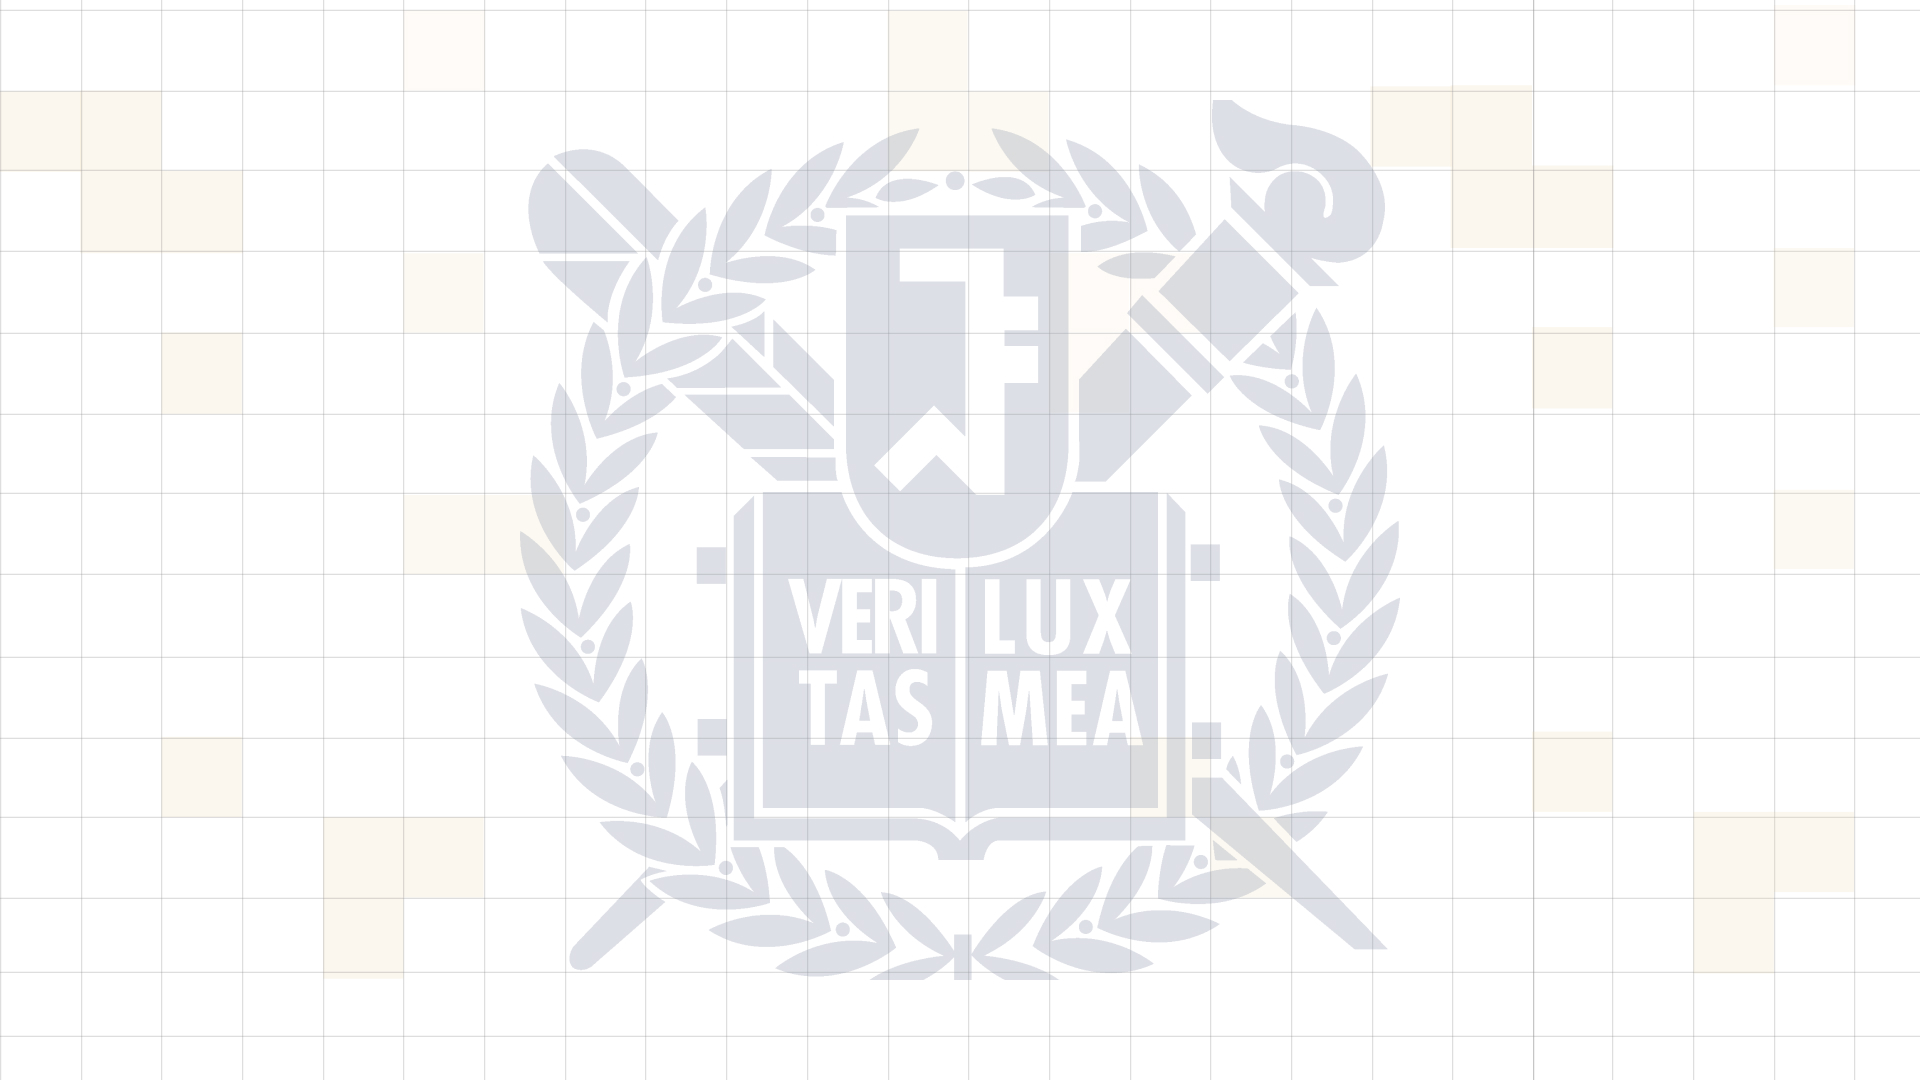
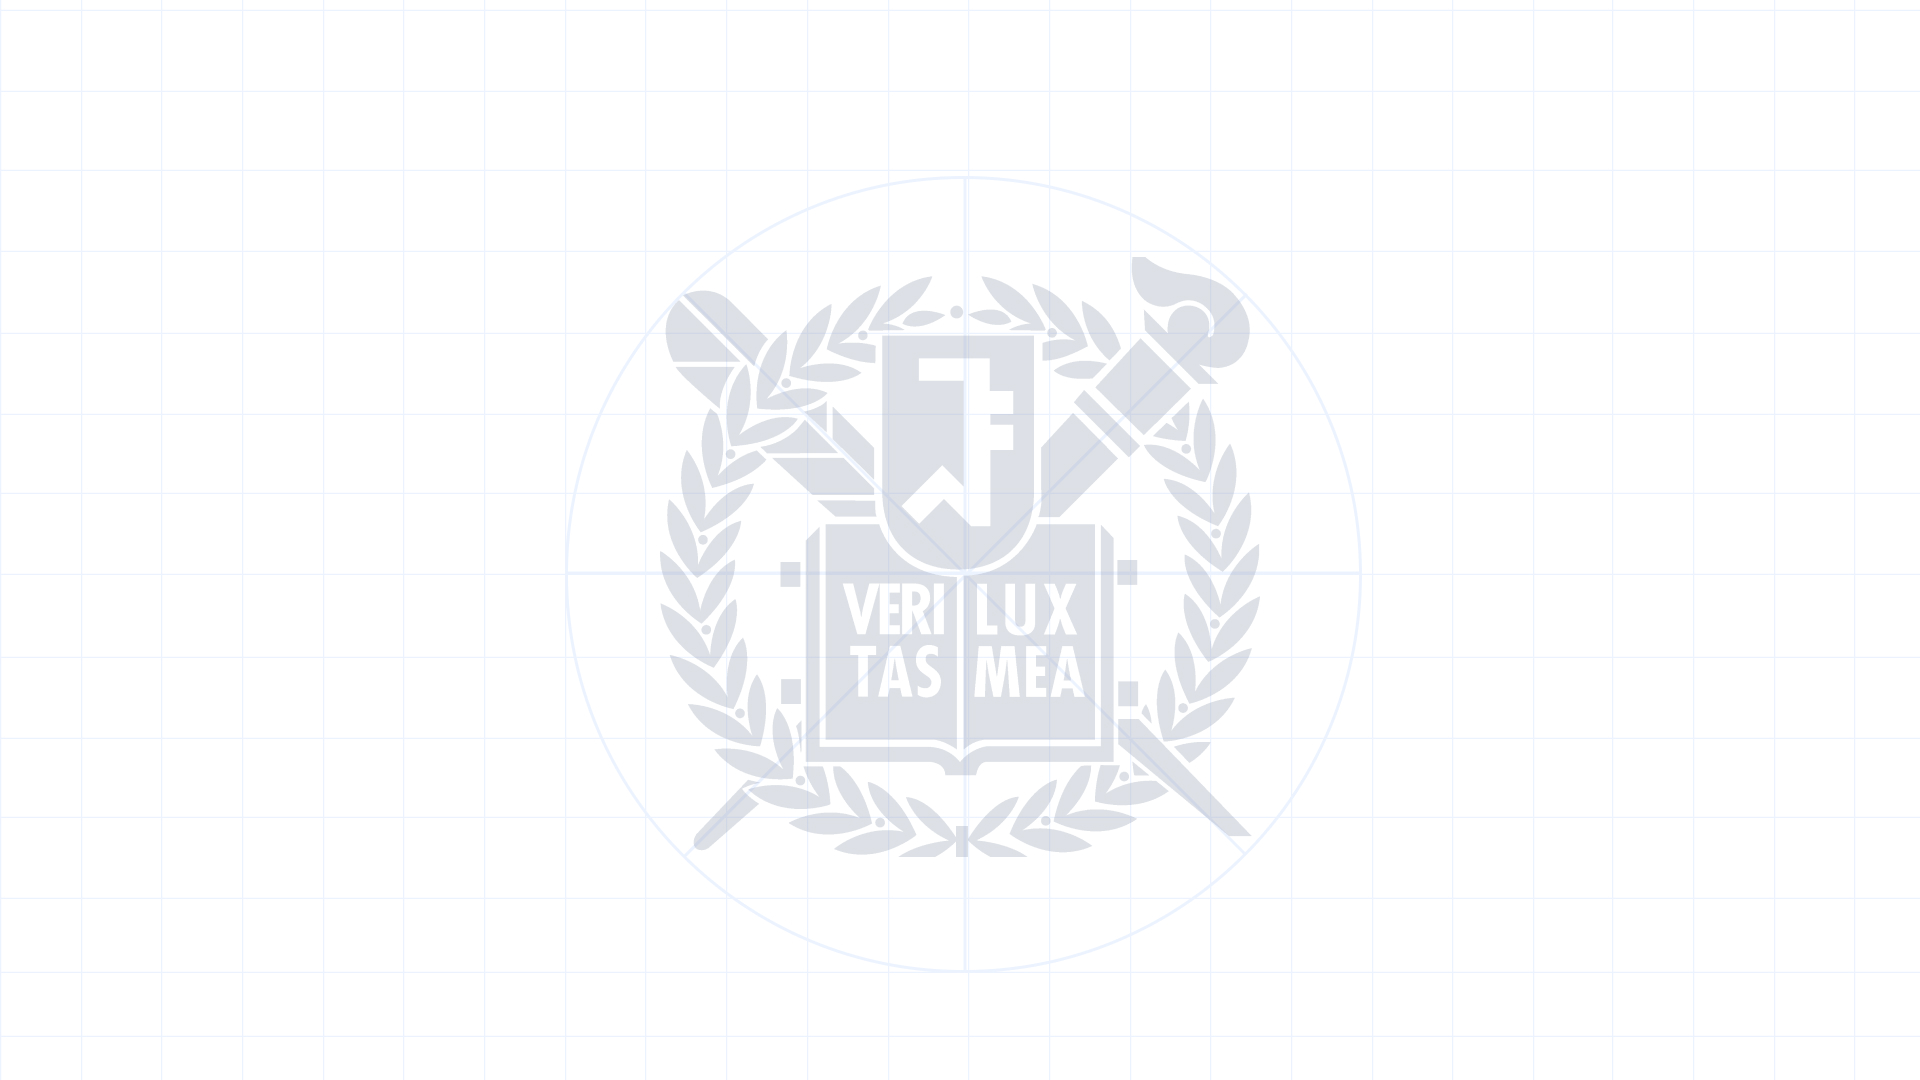
update: hero section 11

Changed region(s): [[0.25, 0.0917, 0.75, 0.9167]]

diff --git a/src/app/page.tsx b/src/app/page.tsx
@@ -30,22 +30,25 @@ export default function Home() {
         </div>
       </header>
 
-      {/* 2. Hero Section */}
-      <section className="relative h-[85vh] w-full flex items-center justify-center overflow-hidden bg-white">
+      {/* 2. Hero Section (Custom 배경 이미지 크기 조정 및 오버레이 제거) */}
+      <section className="relative h-[85vh] w-full flex items-center justify-center overflow-hidden bg-slate-50 border-b border-gray-100">
         
-        {/* 하얀색 기반의 부드러운 그라데이션과 전체 화면 공학 패턴 배경 */}
-        <div className="absolute inset-0 z-0 bg-gradient-to-br from-white via-blue-50/30 to-white">
-          <div className="absolute inset-0 w-full h-full opacity-[0.03] bg-[linear-gradient(to_right,#004ab3_1px,transparent_1px),linear-gradient(to_bottom,#004ab3_1px,transparent_1px)] bg-[size:30px_30px]"></div>
-          {/* 정밀한 도면 느낌을 주는 기하학적 라인 패턴 (중앙 정렬) */}
-          <svg className="absolute left-1/2 top-1/2 -translate-x-1/2 -translate-y-1/2 w-[600px] h-[600px] md:w-[800px] md:h-[800px] opacity-[0.03] text-blue-900 pointer-events-none" viewBox="0 0 100 100" fill="none" stroke="currentColor" strokeWidth="0.5">
-            <circle cx="50" cy="50" r="40"/>
-            <path d="M10 50 H90 M50 10 V90 M21.7 21.7 L78.3 78.3 M21.7 78.3 L78.3 21.7"/>
-          </svg>
+        {/* 원장님이 제작하신 커스텀 배경 이미지: 크기 조정 및 중앙 배치 */}
+        <div className="absolute inset-0 z-0">
+          <div className="relative w-[80%] md:w-[70%] h-full mx-auto">
+            <Image 
+              src="/hero-bg.webp" 
+              alt="서울한스치과 메인 배경"
+              fill
+              priority
+              className="object-cover"
+            />
+          </div>
         </div>
 
         <div className="relative z-10 container mx-auto px-4 sm:px-6 h-full flex flex-col justify-center mt-12">
           
-          {/* 전문가 배지 섹션: 모든 배지 텍스트 블루 컬러 통합 */}
+          {/* 전문가 배지 섹션: 밝은 배경에 어울리는 색상 조정 */}
           <div className="flex flex-wrap justify-center gap-2 md:gap-3 mb-10 md:mb-12 animate-fade-in-up w-full">
             <span className="px-3 py-1 md:px-4 md:py-1.5 bg-blue-50 rounded-full text-xs md:text-sm font-bold border border-blue-100 text-blue-900 shadow-sm whitespace-nowrap">
               서울대학교 전기공학부 졸업
@@ -61,10 +64,10 @@ export default function Home() {
             </span>
           </div>
 
-          {/* 상단 텍스트(중앙)와 로고(우측 절대배치) 컨테이너 */}
+          {/* 상단 텍스트(중앙) 컨테이너: 서울대 마크 제거 및 텍스트 색상 변경 */}
           <div className="relative w-full flex justify-center items-center">
             
-            {/* 중앙 텍스트 영역 */}
+            {/* 중앙 텍스트 영역 (밝은 배경용 검은색 텍스트) */}
             <div className="w-full max-w-3xl text-center text-gray-900 relative z-10">
               {/* 메인 Title */}
               <h1 className="text-3xl md:text-5xl font-extrabold mb-6 md:mb-8 leading-[1.3] tracking-tight">
@@ -81,18 +84,9 @@ export default function Home() {
                 모든 치료 과정을 <span className="font-semibold text-blue-900 underline decoration-blue-900 decoration-2 underline-offset-4">하나의 지름길</span>로 인도합니다.
               </p>
             </div>
-
-            {/* 우측 서울대 마크 영역 (절대 배치로 텍스트 중앙 정렬 방해 안 함) */}
-            <div className="hidden lg:block absolute right-0 xl:right-12 top-1/2 transform -translate-y-1/2 opacity-90 animate-fade-in-up z-0 pointer-events-none" style={{ animationDelay: '0.2s' }}>
-              <img 
-                src="/snu-logo.png" 
-                alt="서울대학교 마크" 
-                className="w-56 h-56 md:w-64 md:h-64 object-contain drop-shadow-xl"
-              />
-            </div>
           </div>
 
-          {/* 예약하기 버튼: 네이버 브랜드 컬러 및 스타일 유지 */}
+          {/* 예약하기 버튼 */}
           <div className="w-full flex justify-center mt-12 md:mt-16 animate-fade-in-up relative z-20" style={{ animationDelay: '0.4s' }}>
             <a 
               href="https://booking.naver.com/booking/13/bizes/804953"
@@ -284,7 +278,7 @@ export default function Home() {
       {/* 8. 증례별 전후사진 슬라이더 */}
       <CasesSlider />
 
-      {/* 9. Live Blog Feed 개편 (실시간 소통하는 진료실) */}
+      {/* 9. Live Blog Feed */}
       <section id="blog" className="py-24 bg-gray-50 border-t border-gray-200">
         <div className="max-w-6xl mx-auto px-4">
           <div className="flex justify-between items-end mb-10">
@@ -298,7 +292,6 @@ export default function Home() {
           </div>
           
           <div className="grid md:grid-cols-3 gap-6">
-            {/* API 연동 또는 수동 업데이트용 카드 */}
             <a href="https://blog.naver.com/seoulhansdental" target="_blank" rel="noreferrer" className="block bg-white p-6 rounded-2xl border border-gray-100 hover:shadow-lg hover:-translate-y-1 transition-all group">
               <span className="inline-block px-3 py-1 bg-blue-50 text-blue-900 text-xs font-bold rounded-full mb-4">교정학 연구 일지</span>
               <h3 className="text-lg font-bold text-gray-800 mb-3 group-hover:text-blue-900 transition-colors leading-snug">
